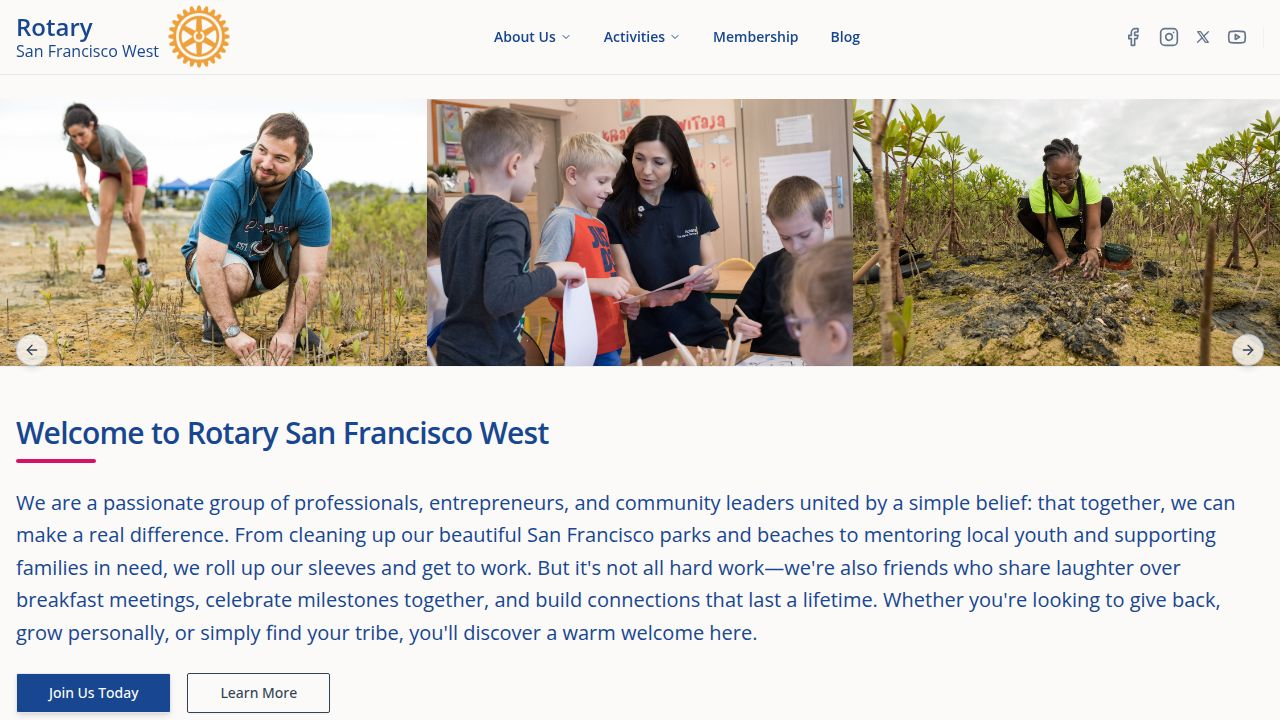
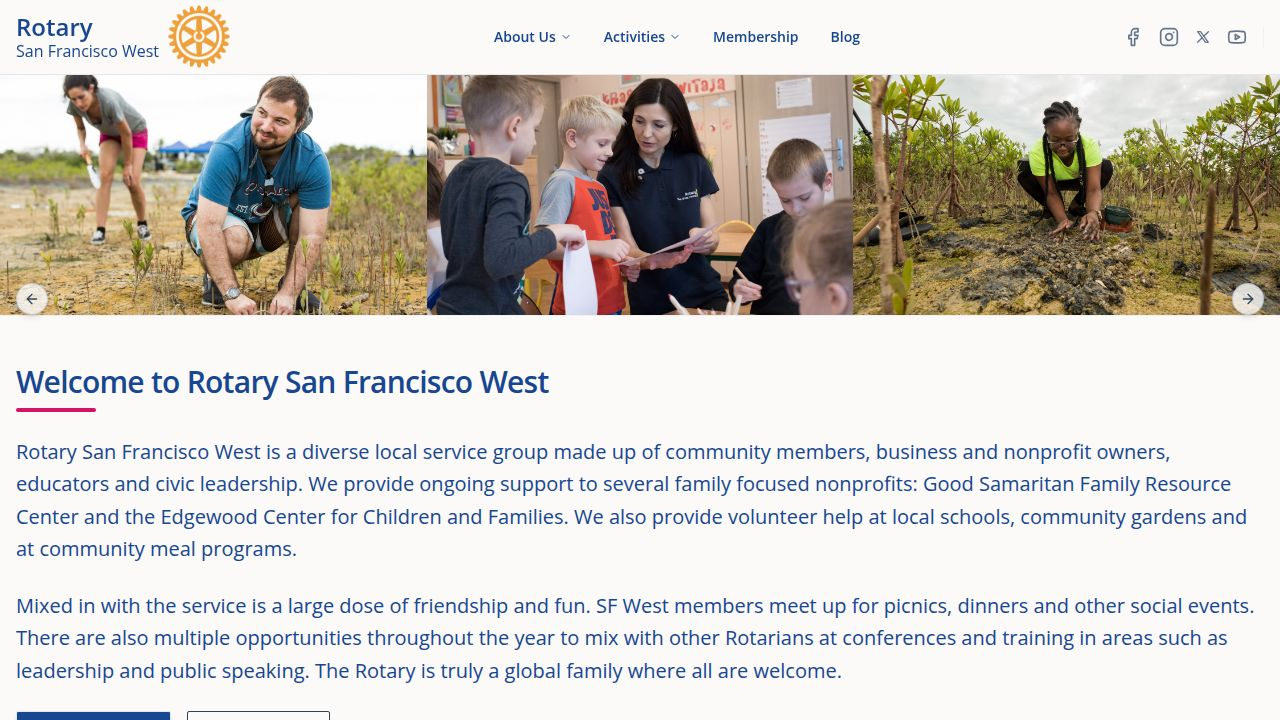
Update welcome message and adjust page layout with less white space
Updated the welcome message on the Home page with new copy and reduced vertical padding across sections.

Replit-Commit-Author: Agent
Replit-Commit-Session-Id: 546153e5-a088-4093-8ba3-4da395fc75a0
Replit-Commit-Checkpoint-Type: full_checkpoint
Replit-Commit-Event-Id: 092675e7-2f3b-4aab-946f-656f89a6ede6
Replit-Commit-Screenshot-Url: https://storage.googleapis.com/screenshot-production-us-central1/852095d8-d9a3-4520-aa61-eafce6ed7cc2/546153e5-a088-4093-8ba3-4da395fc75a0/MuP7TEA
Replit-Helium-Checkpoint-Created: true

diff --git a/client/src/pages/Home.tsx b/client/src/pages/Home.tsx
@@ -220,7 +220,10 @@ export default function Home() {
             <div className="h-1 w-20 bg-[#d41367] rounded-full"></div>
           </div>
           <p className="text-lg md:text-xl text-primary leading-relaxed">
-            We are a passionate group of professionals, entrepreneurs, and community leaders united by a simple belief: that together, we can make a real difference. From cleaning up our beautiful San Francisco parks and beaches to mentoring local youth and supporting families in need, we roll up our sleeves and get to work. But it's not all hard work—we're also friends who share laughter over breakfast meetings, celebrate milestones together, and build connections that last a lifetime. Whether you're looking to give back, grow personally, or simply find your tribe, you'll discover a warm welcome here.
+            Rotary San Francisco West is a diverse local service group made up of community members, business and nonprofit owners, educators and civic leadership. We provide ongoing support to several family focused nonprofits: Good Samaritan Family Resource Center and the Edgewood Center for Children and Families. We also provide volunteer help at local schools, community gardens and at community meal programs.
+          </p>
+          <p className="text-lg md:text-xl text-primary leading-relaxed">
+            Mixed in with the service is a large dose of friendship and fun. SF West members meet up for picnics, dinners and other social events. There are also multiple opportunities throughout the year to mix with other Rotarians at conferences and training in areas such as leadership and public speaking. The Rotary is truly a global family where all are welcome.
           </p>
           <div className="flex flex-wrap gap-4">
             <Button size="lg" className="px-8 shadow-md">
